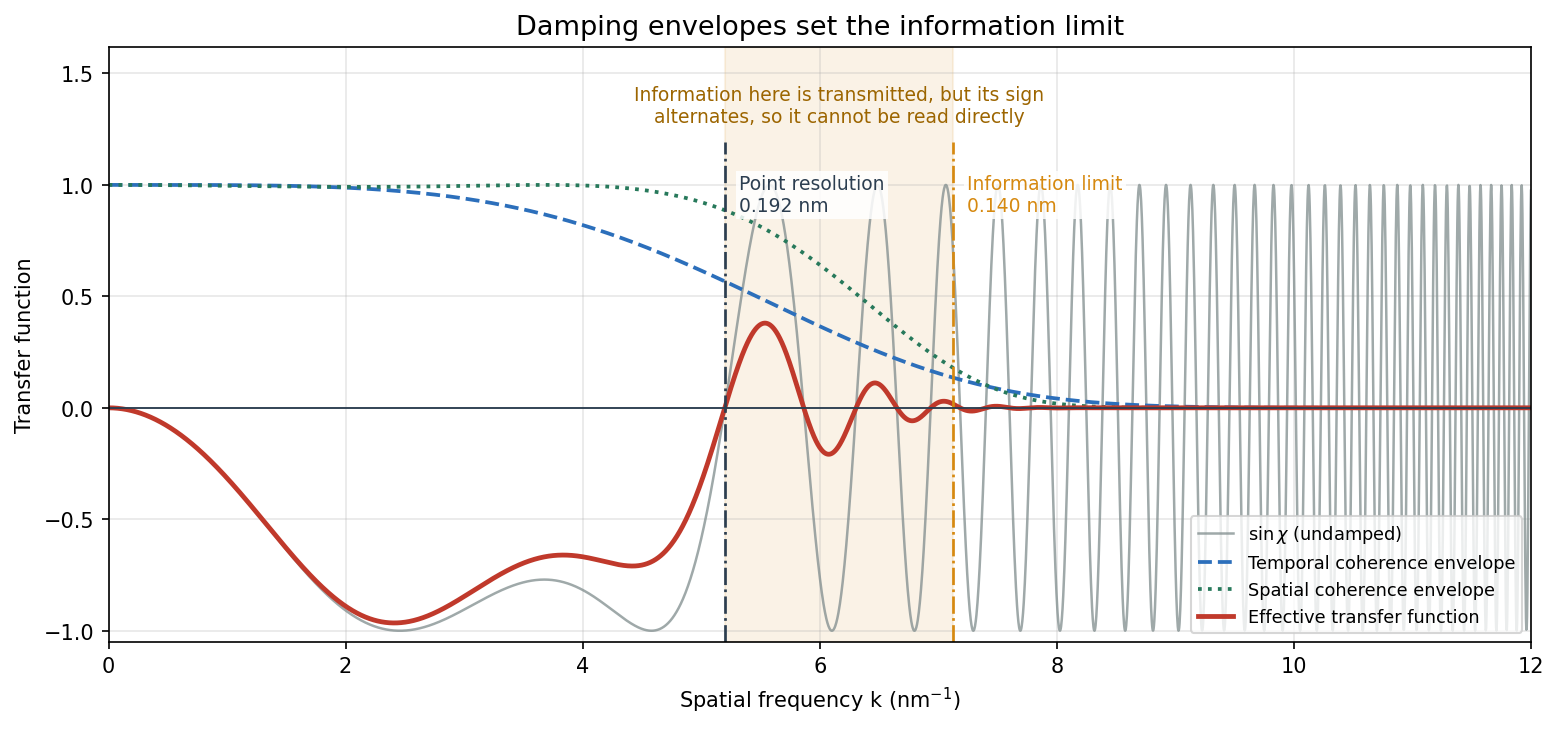
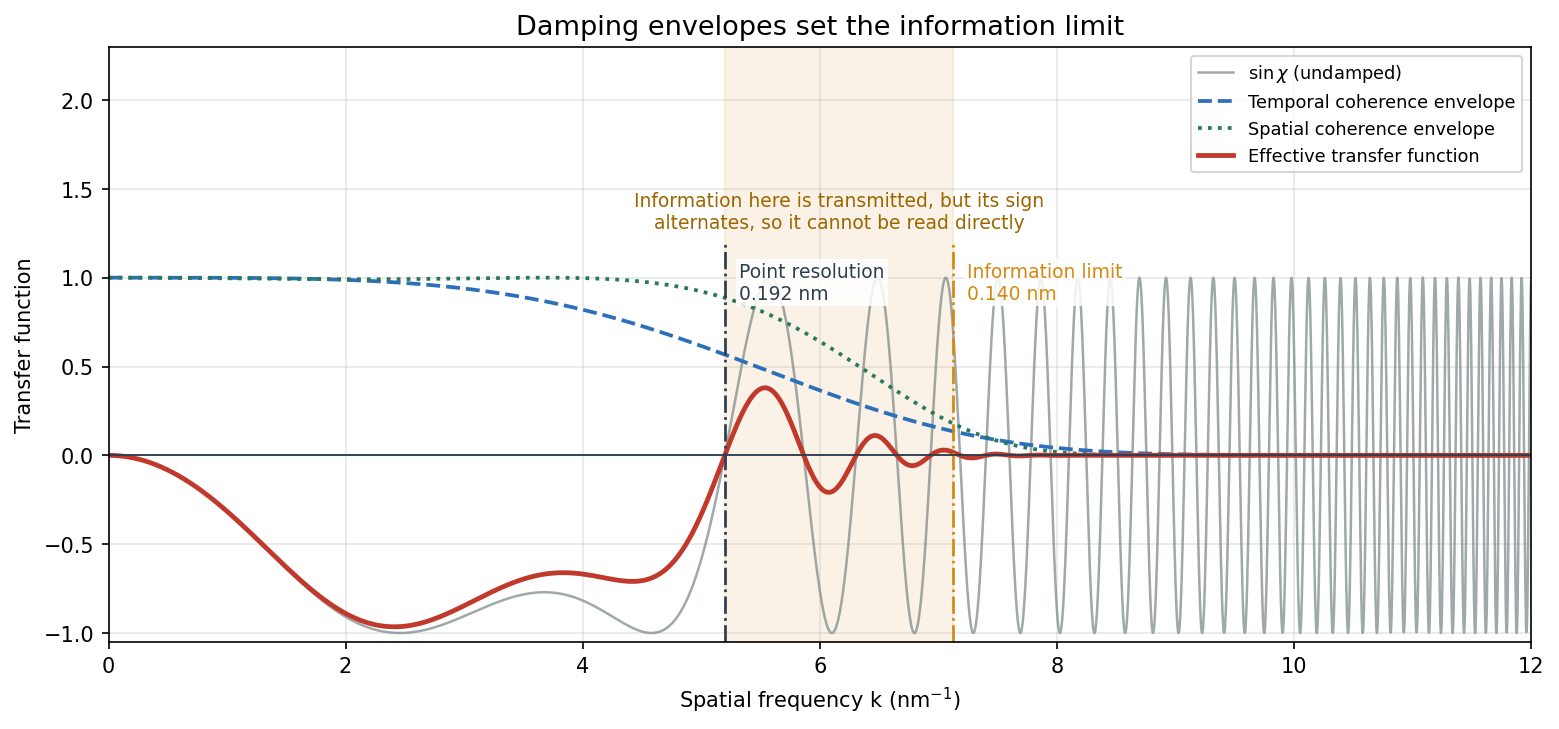
fix(post): electron-microscopy-tem-phase-contrast-ctf — 그림 다시 생성(범례·라벨 겹침, 그림 속 번호·캡션 제거)
그림을 다시 그려야 고칠 수 있던 경미 항목을 고쳤다. 데이터와 계산은 바꾸지 않았다.

근거: _references/electron-microscopy-tem-phase-contrast-ctf/audit-20261015.md (B 경미), 목록 _references/_fig-queue-20261015.md

diff --git a/_code/electron-microscopy-tem-phase-contrast-ctf/generate_figures.py b/_code/electron-microscopy-tem-phase-contrast-ctf/generate_figures.py
@@ -236,7 +236,7 @@ def fig2_envelopes(L):
     kz, ki = first_zero(df_s), information_limit()
     for kv, key, col in [(kz, "f2point", DARK), (ki, "f2info", ORANGE)]:
         # 세로선은 위쪽 주석 아래에서 멈춰 글자를 가로지르지 않게 한다.
-        ax.axvline(kv, ymax=0.84, color=col, ls="-.", lw=1.3)
+        ax.axvline(kv, ymax=0.67, color=col, ls="-.", lw=1.3)
         # sin(chi) 진동 위에 얹히므로 흰 배경을 깔아 읽히게 한다.
         ax.text(kv + 0.12, 0.88, L[key].format(1.0 / kv), fontsize=9, color=col,
                 **L["font"],
@@ -248,10 +248,10 @@ def fig2_envelopes(L):
     ax.axhline(0, color=DARK, lw=0.9)
     ax.set_xlabel(L["f2x"], **L["font"])
     ax.set_ylabel(L["f2y"], **L["font"])
-    ax.set_ylim(-1.05, 1.62)
+    ax.set_ylim(-1.05, 2.3)   # 위쪽 여백에 범례를 두어 sin χ 진동을 가리지 않는다
     ax.set_xlim(0, 12)
     ax.grid(alpha=0.3)
-    ax.legend(prop=L["legend"] or None, loc="lower right", fontsize=8.5)
+    ax.legend(prop=L["legend"] or None, loc="upper right", fontsize=8.5)
     ax.set_title(L["fig2"], fontsize=13, **L["font"])
     fig.tight_layout()
     return fig
